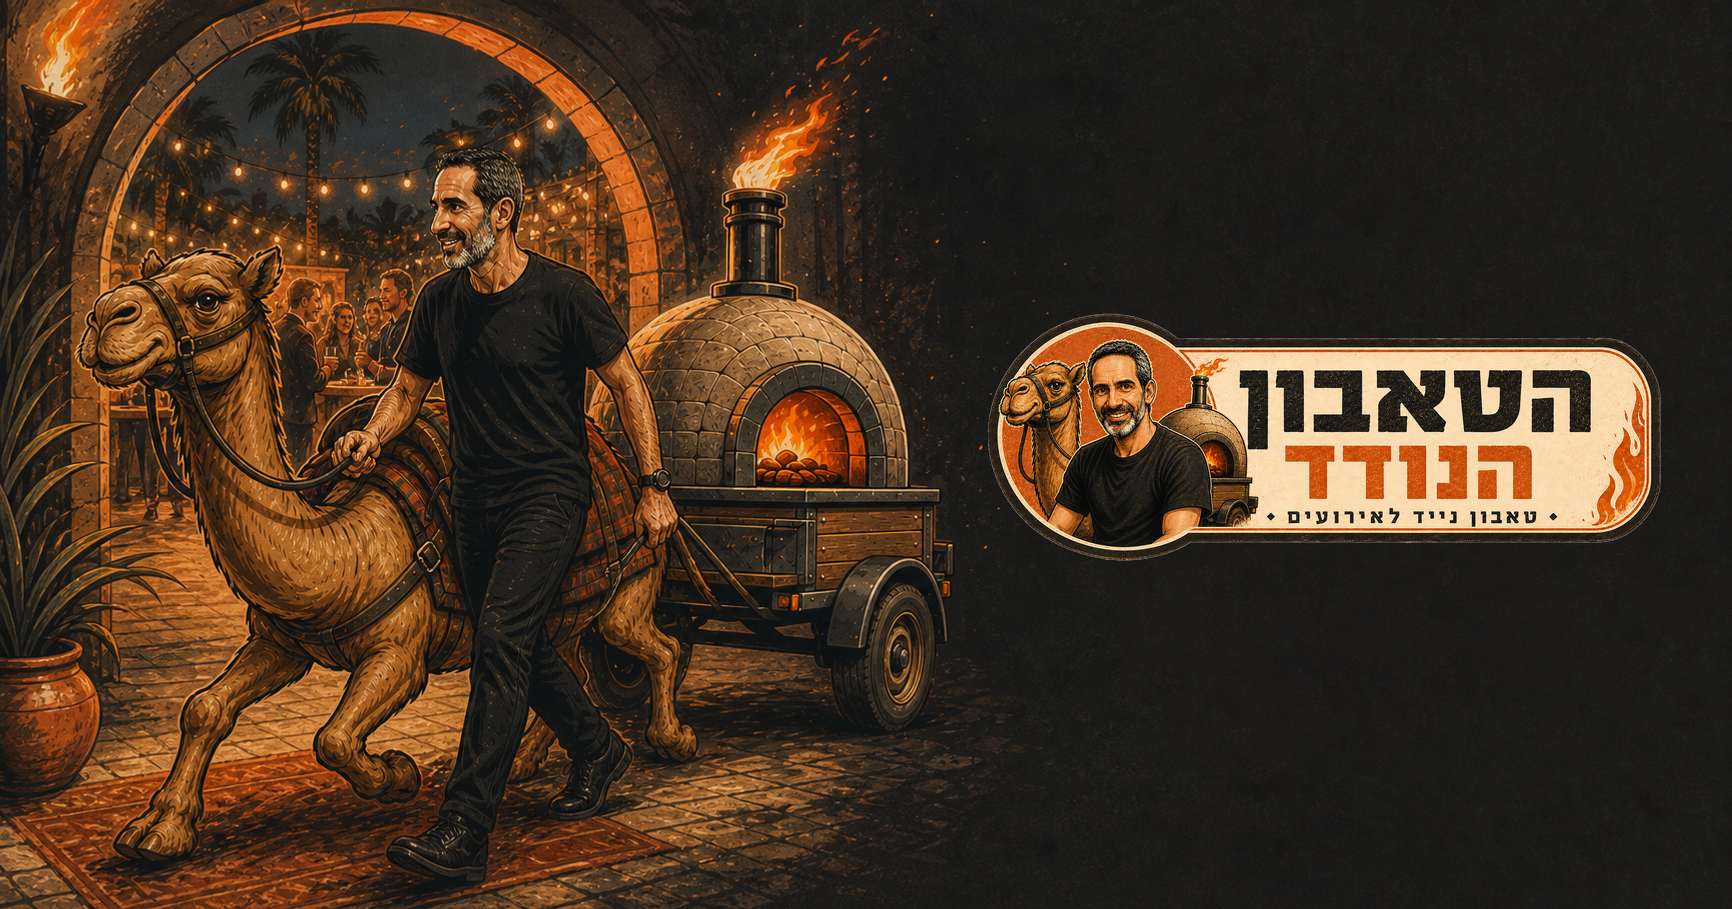
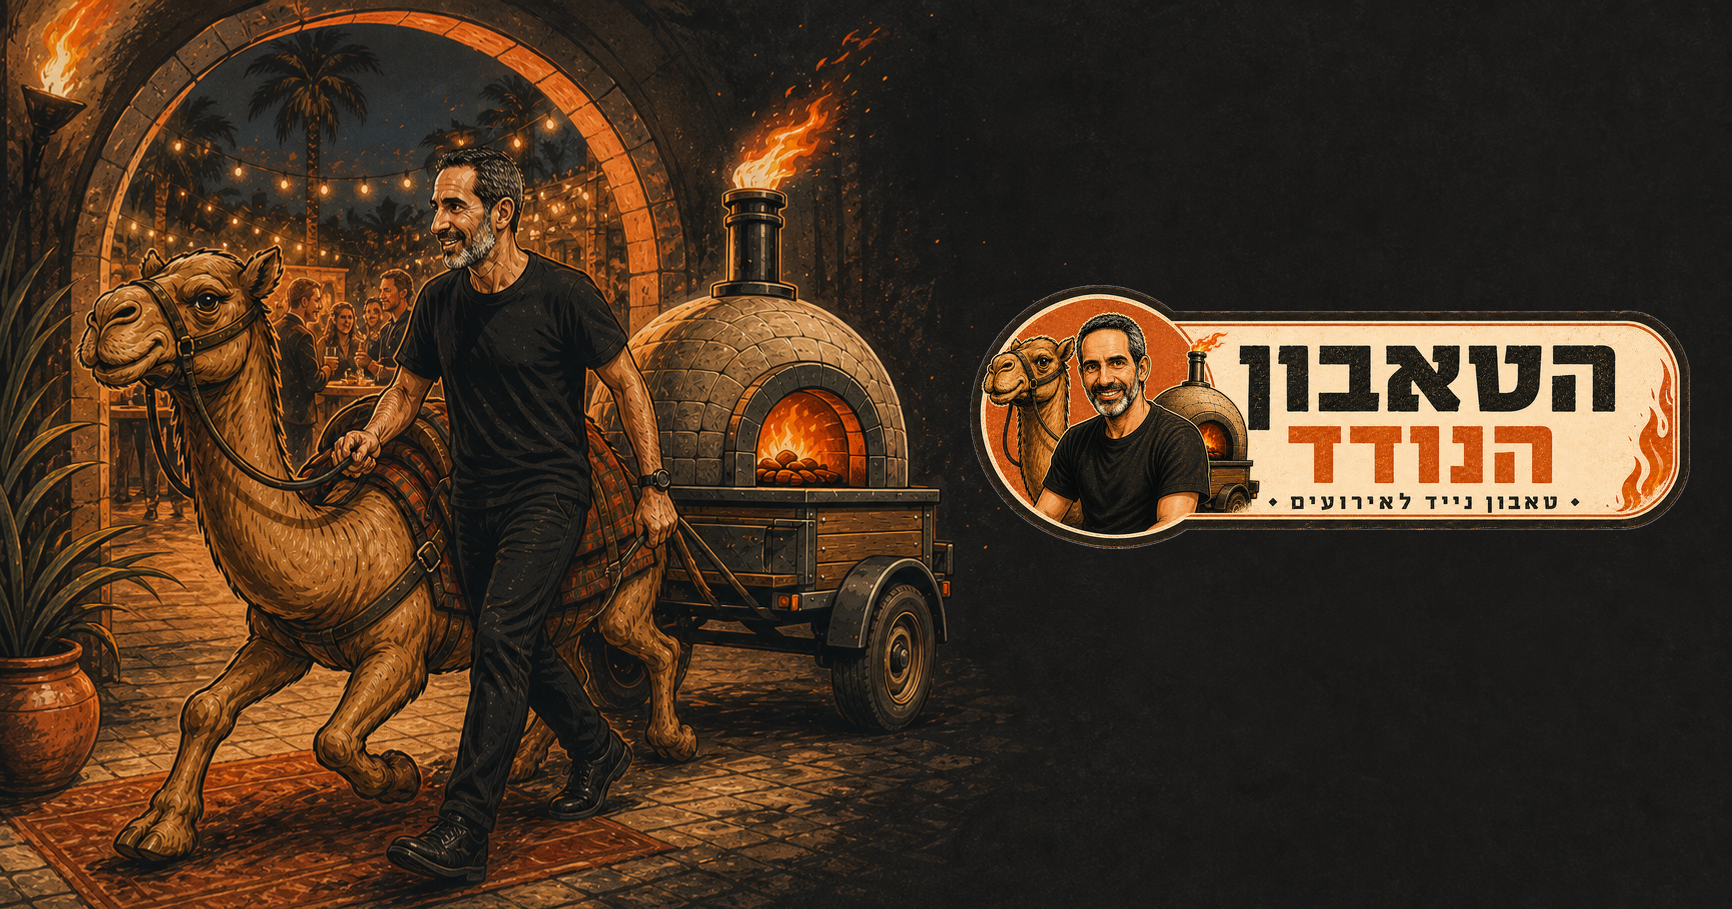
Replace horizontal brand lockup

Changed region(s): [[0.5612, 0.308, 0.9977, 0.6161]]

diff --git a/app/page.tsx b/app/page.tsx
@@ -336,7 +336,7 @@ export default function Home() {
       >
         <header className="poster-nav">
           <a className="nav-brand" href="#top" aria-label="הטאבון הנודד — חזרה לראש העמוד">
-            <img src="/brand/brand-horizontal-logo.png" alt="" />
+            <img src="/brand/brand-horizontal-logo-v2.webp" alt="" />
           </a>
           <nav aria-label="ניווט ראשי">
             <a href="#experience">החוויה</a>
